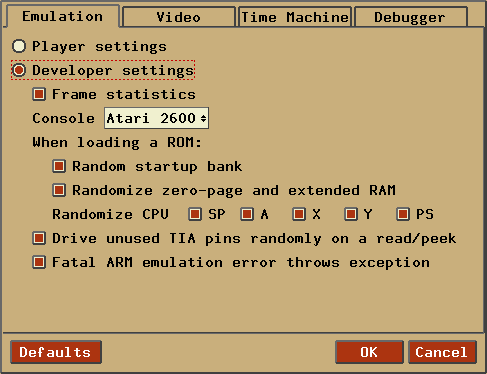
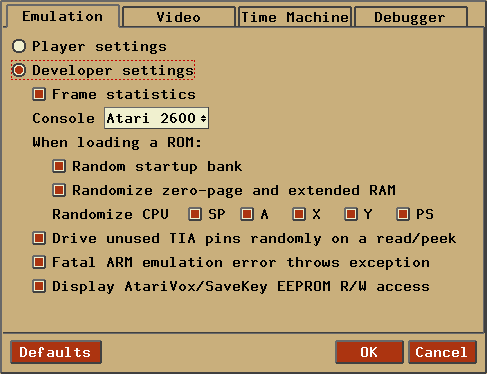
updated for missing eepromaccess setting

diff --git a/docs/index.html b/docs/index.html
@@ -2557,10 +2557,14 @@
     </tr><tr>
       <td><pre>-&lt;plr.|dev.&gt;thumb.trapfatal &lt;1|0&gt;</pre></td>
       <td>The default of true allows the Thumb ARM emulation to
-      throw an exception and enter the debugger on fatal errors. When disabled, such
-      fatal errors are simply logged, and emulation continues. Do not use this
-      unless you know exactly what you're doing, as it changes the behaviour as compared
-      to real hardware.</td>
+        throw an exception and enter the debugger on fatal errors. When disabled, such
+        fatal errors are simply logged, and emulation continues. Do not use this
+        unless you know exactly what you're doing, as it changes the behaviour as
+        compared to real hardware.</td>
+    </tr><tr>
+      <td><pre>-&lt;plr.|dev.&gt;eepromaccess &lt;1|0&gt;</pre></td>
+      <td>When enabled, each read or write access to the AtariVox/SaveKey EEPROM is
+        signalled by a message.</td>
     </tr><tr>
       <td><pre>-&lt;plr.|dev.&gt;tv.jitter &lt;1|0&gt;</pre></td>
       <td>Enable TV jitter/roll effect, when there are too many or too few scanlines
@@ -3135,6 +3139,7 @@
             <td>Thumb ARM emulation throws an exception and enters the debugger on fatal errors</td>
             <td><span style="white-space:nowrap">-plr.thumb.trapfatal<br/>-dev.thumb.trapfatal</span></td>
           </tr>
+          <tr><td>Display AtariVox...</td><td>Display a message when the AtariVox/SaveKey EEPROM is read or written</td><td>-plr.eepromaccess<br/>-dev.eepromaccess</td></tr>
         </table>
       </td>
     </tr>
